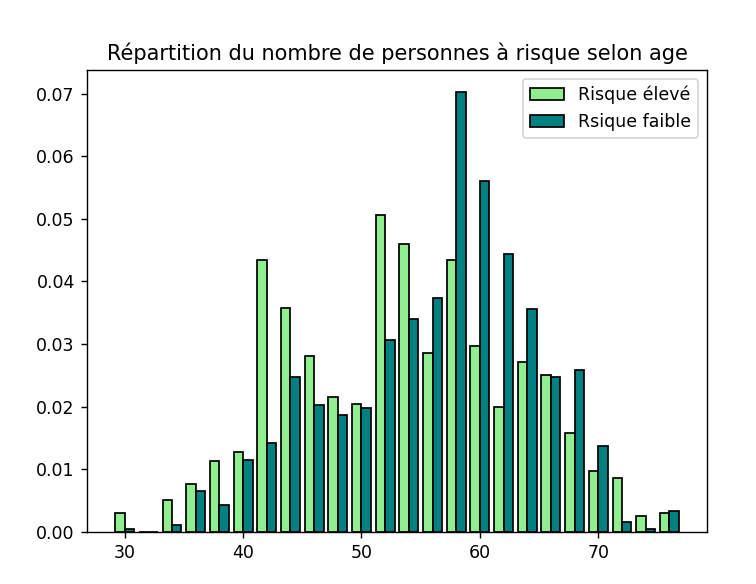
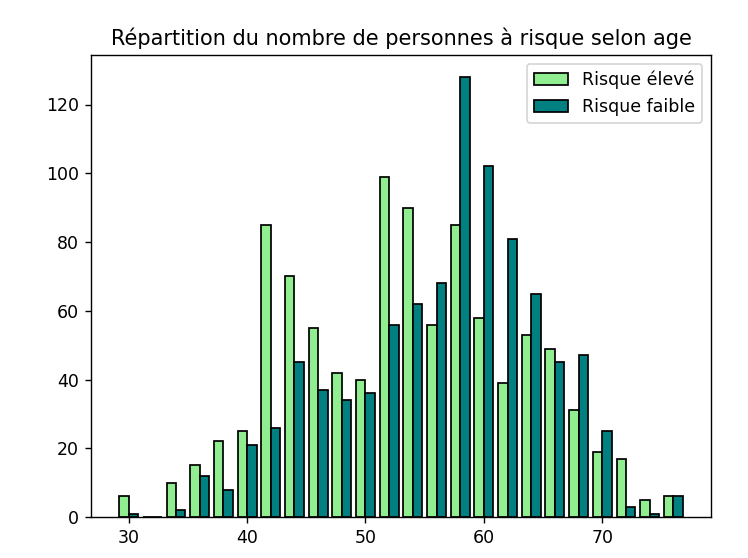
rapport

Changed region(s): [[0.0307, 0.0305, 0.9532, 0.9749]]

diff --git a/python/repartition.py b/python/repartition.py
@@ -5,11 +5,6 @@ import numpy as np
 
 
 def repartition_maladie(data):
-    # data_target=data['target']
-    # print(data['target'])
-    # x = data_target.count(0)
-    # y= data_target.count(1)
-    # plt.pie(np.array([x,y]), labels=["Risque faible","Risque élévé"])
     sns.countplot(x='target', data=data)
     plt.title("Distribution des maladies cardiaques")
     plt.show()
@@ -18,9 +13,7 @@ def repartition_maladie(data):
 #repartition_maladie(df)
 
 def repartitionParCaractere(data1, data2, feature, nb_barres):
-
-    count, bins, ignored = plt.hist([data1[feature],data2[feature]], nb_barres , histtype="bar", color=['lightgreen','teal'],edgecolor='black', density=True, label=["Risque élevé", "Rsique faible"])
-    #count, bins, ignored = plt.hist(data2[feature], nb_barres , histtype="barstacked", color='teal',edgecolor='black', density=True)
+    count, bins, ignored = plt.hist([data1[feature],data2[feature]], nb_barres , histtype="bar", color=['lightgreen','teal'],edgecolor='black', density=False, label=["Risque élevé", "Risque faible"])
     plt.legend(prop={'size': 10})
     plt.title(f"Répartition du nombre de personnes à risque selon {feature}")
     plt.show()
@@ -49,7 +42,7 @@ repartitionParCaractere(df_target_1,df_target_0, "thalachh", nb_barres)
 repartitionParCaractere(df_target_1,df_target_0, "exang", 2)
 repartitionParCaractere(df_target_1, df_target_0,"oldpeak", nb_barres)
 repartitionParCaractere(df_target_1, df_target_0,"slope", 4)
-repartitionParCaractere(df_target_1,df_target_0, "ca", 5)
-repartitionParCaractere(df_target_1,df_target_0, "thal", 7)
+repartitionParCaractere(df_target_1,df_target_0, "ca", 4)
+repartitionParCaractere(df_target_1,df_target_0, "thal", 3)
 
 

diff --git a/notebook.md b/notebook.md
@@ -8,39 +8,39 @@
 
 ## Introduction - Présentation du dataset
 
-Le dataset choisi pour ce projet recense des patients ainsi que leurs risques d'attaque cardiaque ainsi que plusieurs caractéristiques les concerant.
+Le dataset choisi pour ce projet recense des patients et plusieurs caractéristiques les concerant ainsi que leurs risques d'attaque cardiaque.
  
  **Explications des différentes caractéristiques**
 
-1. `age:` est l'age des patients
+1. `age` :  âge des patients
 
-2. `sexe:` est le sexe du patient (_1 = homme et 0 = femme_)
+2. `sex` :  sexe du patient (_1 = homme et 0 = femme_)
 
-3. `cp:` est le type de douleur thorasique ressentie par le patient 
- (_Valeurs possible :0 = angine de pointrine typique, 1 = angine de pointrine atypique, 2 = douleur de pointrine non spécifié , 3 = Asympthomatique_)
+3. `cp` :  de douleur thorasique ressentie par le patient 
+ (_Valeurs possible : 0 = angine de pointrine typique, 1 = angine de pointrine atypique, 2 = douleur de pointrine non spécifié , 3 = Asympthomatique_)
  L'**angine de poitrine**, ou **angor**, désigne une douleur thoracique qui apparaît généralement pendant un effort ou un stress.
 
-4. `ntrestbps:` est la pression sangine en mmhg (_en mmHg_)
+4. `ntrestbps`: pression sangine (_en mmHg_)
 
-5. `chol`: est le niveau de choléstérol (_en mg/dl_)
+5. `chol`: niveau de choléstérol (_en mg/dl_)
 
-6. `fbs` est le taux de sucre a jeun, il doit etre en dessous de 120mg/dl (_1 = Vrai, 0 = Faux_)
+6. `fbs` : taux de sucre a jeun, il doit etre en dessous de 120mg/dl (_1 = Vrai, 0 = Faux_)
 
-7. `restecg:` est le resultat des electrocardigramme au repos (_0 = Normale, 1 = anomalie du segement ST-T, 2 = hypertrophie du ventriculaire gauche_)
+7. `restecg` : résultat des électrocardigrammes au repos (_0 = Normale, 1 = anomalie du segement ST-T, 2 = hypertrophie du ventriculaire gauche_)
 
-8. `thalach:` est la fréquence cardiaque maximum atteinte (_en bpm_)
+8. `thalach` :  fréquence cardiaque maximum atteinte (_en bpm_)
 
-9. `exang:` est l'angor induit par l'effort (_1 = oui, 0 = non_)
+9. `exang` :  l'angor induit par l'effort (_1 = oui, 0 = non_)
 
-10. `oldpeak:` est le baisse du segment ST induit par l'effort par rapport au repos
+10. `oldpeak` :  baisse du segment ST induit par l'effort par rapport au repos
 
-11. `slope:` est la point du segement ST en execice _(0 = ascendante, 1 = plat, 2 = decendante_)
+11. `slope` :  pointe du segement ST en execice _(0 = ascendante, 1 = plate, 2 = decendante_)
 
-12. `ca:` nombre de artere majeur coloré par fluoroscopy(_0, 1, 2, 3_)
+12. `ca` : nombre d'artères majeures colorées par fluoroscopie(_0, 1, 2, 3_)
 
-13.`thal:` types de thalassémie (_1 = Normale, 2 = defaut definitif , 3 = default reversible_)
+13. `thal` : type de thalassémie (_1 = normal, 2 = défaut définitif , 3 = défaut réversible_)
 
-14. `target:` reslutat des risque d'attaque cardiaque (_1 = plus de chance d'attaque cardiaque 0 = moins de chance d'attaque cardiaque_)
+14. `target` : réslutat des risques d'attaque cardiaque (_1 = risque élevé, 0 = risque faible_)
 
 Les bibliothèques python utilisées pour ce projet sont les suivantes : 
 - <u>pandas</u> (as pd) : pour la manipulation des données
@@ -78,8 +78,15 @@ def repartitionParCaractere(data1, data2, feature, nb_barres):
 On obtient les histogrammes suivants (ici uniquement pour les variables `age`, `sex` et `ca`) :
 
 ![Histogramme Age](plots/histogramme_age.png) 
+On peut déjà faire quelques supositions quand au lien entre l'âge et le risque d'attaque cardiaque. On observe entre autre que le nombre de patient à risque est plus élevé chez ceux agés de moins de 55 ans tandis que le nombre de patients avec un risque faible est très élévé après 55 ans.
+
 ![Histogramme Sexe](plots/histogramme_sex.png)
+A gauche, nous avons les chiffres pour les femmes (représentées par un 0 dans le dataset) et à gauche les hommes (représentés par un 1). On peut voir que le nombre d'homme testé est plus important que celui des femmes.
+
 ![Histogramme CA](plots/histogramme_ca.png)
+Dans ce cas, on peut supposer que plus on a d'artères colorées par fluoroscopie moins on a de risque de faire une attaque cardiaque.
+
+Nous allons par la suite pouvoir vérifier si ces hypothèses sont bonnes.
 
 ---
 
@@ -111,7 +118,9 @@ On obtient la matrice de correlation suivante :
 
 On remarque que la variable cible `target` est fortement corrélée positivement avec les variables `cp`, `thalach`, `slope` et `restecg`. Elle est fortement corrélée négativement avec les variables `exang`, `oldpeak` et `ca`.
 
-Plus la correlation est élevée <u>en valeur absolue</u>, plus la variable est importante pour prédire la variable cible.
+Plus la correlation est élevée <u>en valeur absolue</u>, plus la variable est importante pour prédire la variable cible. On peut mieux voir quel critère est le plus corrélé avec `target`avec le graphique suivant. Ce dernier reprend juste les résultats (en valeur absolue) de la matrice de corrélation et les classe.
+
+![Niveau de corrélation avec target](plots/correlation_target.png)
 
 ---
 
@@ -124,6 +133,8 @@ L'entropie epsilon est calculée avec $H(X) = - \sum_{i=1}^{n} p(x_i) \log p(x_i
 
 ![Entropie](plots/entropie.png)
 
+On voit que toutes les caractéristiques discètes telles que l'âge ou la douleur thoracique ont une faible entropie tandis que les caractérisques continues ont une entropie beaucoup plus importante.
+
 ### Entropie Conditionnelle
 
 **Définition** : L'entropie conditionnelle est une mesure de l'incertitude d'une variable aléatoire, <u>sachant une autre variable aléatoire</u>. Elle est utilisée pour mesurer la quantité d'information nécessaire pour décrire la sortie d'un système, sachant l'entrée.
@@ -131,6 +142,8 @@ Plus l'entropie conditionnelle d'une variable est élevée, plus il faut apporte
 L'entropie conditionnelle est calculée avec $H(Y|X) = - \sum_{i=1}^{n} p(x_i) \sum_{j=1}^{m} p(y_j|x_i) \log p(y_j|x_i)$ où $p(y_j|x_i)$ est la probabilité de la valeur $y_j$ sachant la valeur $x_i$ dans la colonne.
 
 ![Entropie Conditionnelle](plots/entropie_conditionnelle.png)
+
+Ici nous pouvons voir que le cholestérol (`chol`) est un très bon indicateur pour prédire le risque d'une attaque cardiaque chez une personne. Avec une plage de valeurs continues, il est possible d'enregistrer les personnes ayant un taux de cholestérol très élevé et donc de bien identifier le seuil critique tandis que le taux de sucre dans le sang à jeun (`fbs`) n'apporte pas assez d'indication. Cela s'explique par les valeurs qu'il peut prendre dans le data set (0 ou 1) qui nous permettent seulement de savoir si la personne a un taux supérieur à un seuil et non son taux précis. En augmentant, le nombre de caractéristiques continues quand les valeurs s'y prêtes, on pourrait augmenter la fiabilité des prédictions en ayant plusieurs critéres étant des bons indicateurs.
 
 ---
 
